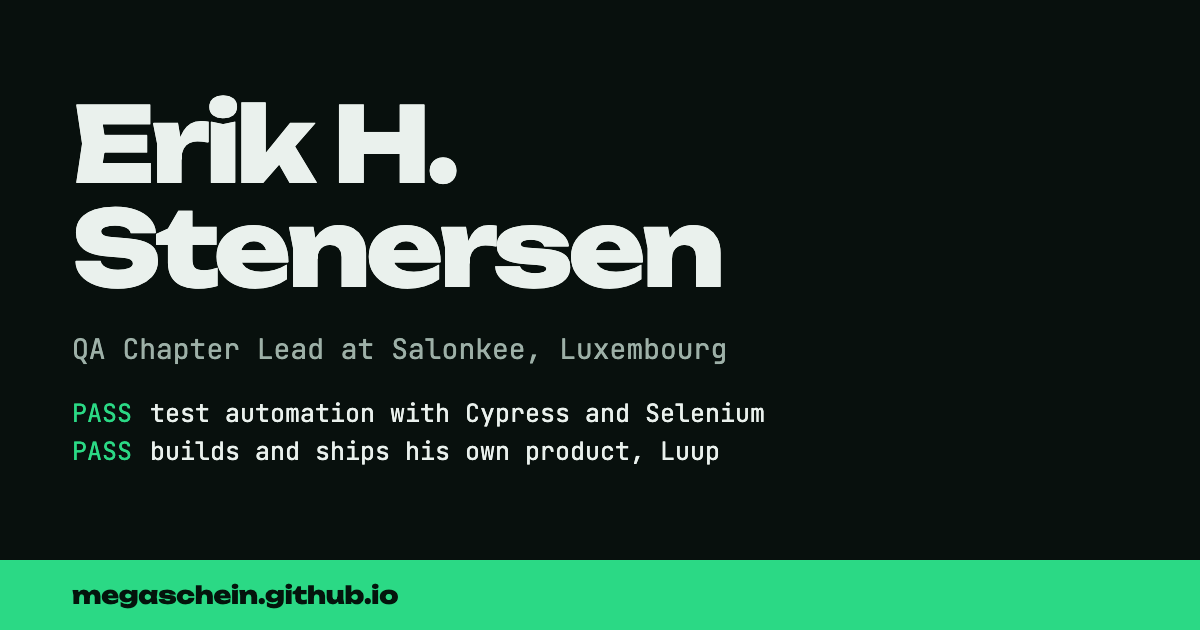
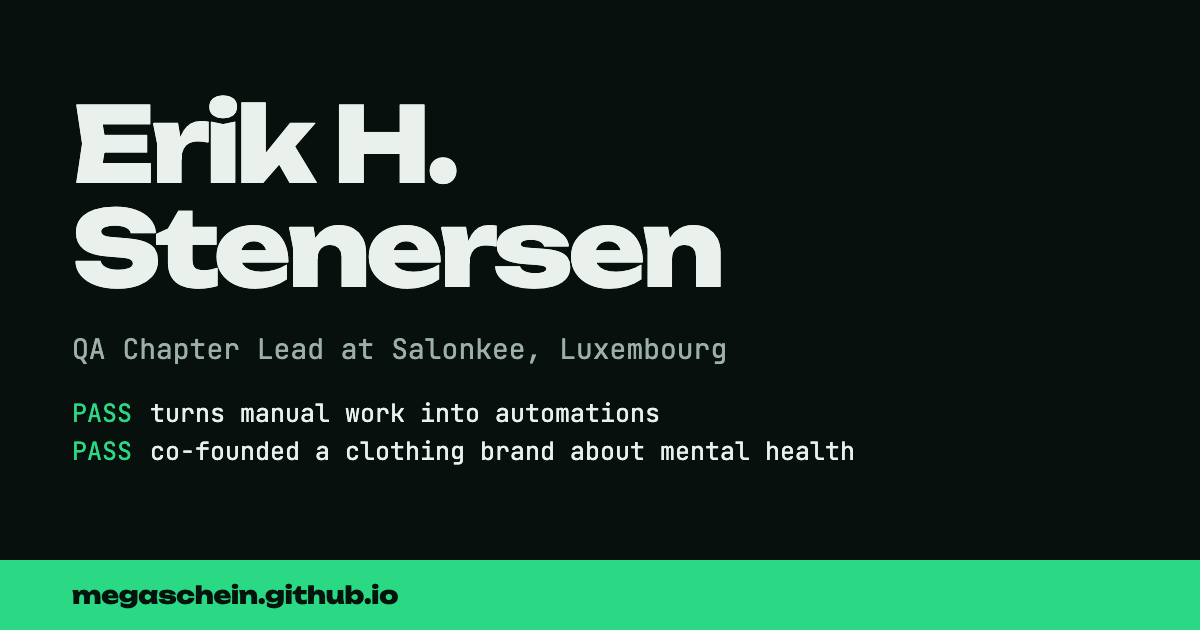
Rewrite the intro and copy, and move Luup into Beyond testing
Four intro lines that say who I am, Luup moved under Beyond testing, Sound
Advice in the past tense and linked to its Instagram, and the Salonkee
sentence kept separate from the automation savings.

Changed region(s): [[0.1233, 0.6333, 0.7092, 0.754]]

diff --git a/index.html b/index.html
@@ -50,7 +50,7 @@
     </div>
     <div class="term" aria-label="Summary of what I do">
       <div class="term-bar" aria-hidden="true"><i></i><i></i><i></i><span>run: erik --all</span></div>
-      <pre class="run"><span class="l"><b>PASS</b> leads QA at Salonkee</span><span class="l"><b>PASS</b> automates end-to-end tests with Cypress and Selenium</span><span class="l"><b>PASS</b> builds and ships his own product, Luup</span><span class="l"><b>PASS</b> speaks 5 languages</span><span class="l sum" id="sum" data-bug="count" data-bugged="5 passed, 0 failed">4 passed, 0 failed</span></pre>
+      <pre class="run"><span class="l"><b>PASS</b> leads QA at Salonkee</span><span class="l"><b>PASS</b> turns manual work into automations, once saved a business 7 working days a year</span><span class="l"><b>PASS</b> co-founded a clothing brand about mental health</span><span class="l"><b>PASS</b> speaks 5 languages</span><span class="l sum" id="sum" data-bug="count" data-bugged="5 passed, 0 failed">4 passed, 0 failed</span></pre>
     </div>
   </div>
 </header>
@@ -76,30 +76,8 @@
     <h2>What I do</h2>
     <div class="body prose">
       <p class="lede">I lead quality. That means deciding how a team tests, what gets automated, and which bugs are worth stopping a release for.</p>
-      <p>I came to QA the long way: freelance design and marketing, then business process analysis. So I look for the manual work that slows people down and automate it. One automation project I led saved a business seven working days a year.</p>
+      <p>I came to QA the long way: freelance design and marketing, then business process analysis. So I look for the manual work that slows people down and automate it. At Salonkee I built Cypress tests that run in CI/CD, took charge of planning the B2C app launch, and mentored teammates.</p>
       <p>I studied Digital Media and Interaction Design, so I also care whether a product feels right to use, not only whether it passes.</p>
-    </div>
-  </section>
-
-  <section class="split" id="luup" data-suite="Luup">
-    <h2>Luup</h2>
-    <div class="body">
-      <div class="luup-card">
-        <div class="luup-text">
-          <p class="lede">A peer-to-peer marketplace for buying, selling and sharing locally in Luxembourg. It is live, and I built it end to end.</p>
-          <ul class="plain">
-            <li>Angular 19 web app and an Expo (React Native) mobile app</li>
-            <li>Node and Express API on PostgreSQL, deployed with Docker Compose and GitHub Actions</li>
-            <li data-bug="contrast">AI that writes listing descriptions from photos and finds items from a picture, plus content moderation</li>
-            <li>Seven interface languages, with listings and chat translated automatically</li>
-            <li>Error monitoring with Sentry and server metrics</li>
-          </ul>
-          <p><a class="pill" href="https://luup.lu">Open luup.lu</a></p>
-        </div>
-        <figure class="phone">
-          <img src="images/luup-home.png" width="780" height="1260" alt="The Luup home page on a phone: a search box under the line 'Your neighbourhood, your marketplace'" loading="lazy">
-        </figure>
-      </div>
     </div>
   </section>
 
@@ -215,7 +193,25 @@
   <section class="split" id="beyond" data-suite="beyond testing">
     <h2>Beyond testing</h2>
     <div class="body">
-      <p class="lede prose">Before QA I worked in design and marketing. I still take photos, make music visuals and design things.</p>
+      <p class="lede prose">Before QA I worked in design and marketing. Outside work I build my own product, take photos, make music visuals and design things.</p>
+
+      <h3 class="beyond-h">Something I built</h3>
+      <div class="luup-card" id="luup">
+        <div class="luup-text">
+          <p class="lede">A peer-to-peer marketplace for buying, selling and sharing locally in Luxembourg. It is live, and I built it end to end.</p>
+          <ul class="plain">
+            <li>Angular 19 web app and an Expo (React Native) mobile app</li>
+            <li>Node and Express API on PostgreSQL, deployed with Docker Compose and GitHub Actions</li>
+            <li data-bug="contrast">AI that writes listing descriptions from photos and finds items from a picture, plus content moderation</li>
+            <li>Seven interface languages, with listings and chat translated automatically</li>
+            <li>Error monitoring with Sentry and server metrics</li>
+          </ul>
+          <p><a class="pill" href="https://luup.lu">Open luup.lu</a></p>
+        </div>
+        <figure class="phone">
+          <img src="images/luup-home.png" width="780" height="1260" alt="The Luup home page on a phone: a search box under the line 'Your neighbourhood, your marketplace'" loading="lazy">
+        </figure>
+      </div>
 
       <h3 class="beyond-h">Photography</h3>
       <div class="carousel" id="carousel" role="region" aria-roledescription="carousel" aria-label="Photography">
@@ -236,19 +232,18 @@
           <span id="car-count" aria-live="off">1 of 8</span>
         </div>
       </div>
-      <p class="more"><a href="https://erikhstenersen.wixsite.com/mysite/photography">More photography</a></p>
 
       <div class="cards">
         <article class="card card-music">
           <span class="eq" aria-hidden="true"><i></i><i></i><i></i><i></i><i></i></span>
           <h3>Wookie Productions</h3>
           <p>Audio-reactive music videos for my YouTube channel, made in After Effects since 2015. The channel has passed 165,000 views, and one remix video has more than 150,000.</p>
-          <p class="links"><a href="https://www.youtube.com/user/WookiePr0ductions/">Watch on YouTube</a> <a href="https://erikhstenersen.wixsite.com/mysite/visuals">More visuals</a></p>
+          <p class="links"><a href="https://www.youtube.com/user/WookiePr0ductions/">Watch on YouTube</a></p>
         </article>
         <article class="card card-sound">
           <img src="images/sound-advice-logo.jpg" width="600" height="113" alt="Sound Advice" loading="lazy">
-          <p>A lifestyle and clothing brand I co-founded in 2020. It aims to start positive conversations about mental health and to point people to support. Its motto: sometimes it's okay if all you did today was dance.</p>
-          <p class="links"><a href="https://erikhstenersen.wixsite.com/mysite/soundadvice">About Sound Advice</a></p>
+          <p>A lifestyle and clothing brand I co-founded in 2020. It set out to start positive conversations about mental health and to point people to support. Its motto was: sometimes it's okay if all you did today was dance.</p>
+          <p class="links"><a href="https://www.instagram.com/_soundadvice_/">Sound Advice on Instagram</a></p>
         </article>
       </div>
 
@@ -263,7 +258,6 @@
           <li><figure><img src="images/work/mascara-lies.jpg" width="700" height="538" alt="Mascara Lies: cover art for a music release" loading="lazy"><figcaption><strong>Mascara Lies</strong>Cover art for a music release</figcaption></figure></li>
           <li><figure><img src="images/work/stapp.jpg" width="700" height="662" alt="Stapp: promo ad for a study app" loading="lazy"><figcaption><strong>Stapp</strong>Promo ad for a study app</figcaption></figure></li>
       </ul>
-      <p class="more"><a href="https://erikhstenersen.wixsite.com/mysite/projects">See all projects</a></p>
     </div>
   </section>
 

diff --git a/tests/site.spec.js b/tests/site.spec.js
@@ -152,7 +152,7 @@ test.describe('beyond testing', () => {
   test('every photo and design image has a description', async ({ page }) => {
     const imgs = page.locator('#beyond img');
     const n = await imgs.count();
-    expect(n).toBe(16);
+    expect(n).toBe(17);
     for (let i = 0; i < n; i++) expect((await imgs.nth(i).getAttribute('alt'))?.length).toBeGreaterThan(8);
   });
 
@@ -164,7 +164,7 @@ test.describe('beyond testing', () => {
 
   test('the music and brand cards link to real pages', async ({ page }) => {
     await expect(page.getByRole('link', { name: 'Watch on YouTube' })).toHaveAttribute('href', 'https://www.youtube.com/user/WookiePr0ductions/');
-    await expect(page.getByRole('link', { name: 'About Sound Advice' })).toHaveAttribute('href', 'https://erikhstenersen.wixsite.com/mysite/soundadvice');
+    await expect(page.getByRole('link', { name: 'Sound Advice on Instagram' })).toHaveAttribute('href', 'https://www.instagram.com/_soundadvice_/');
     const html = await page.locator('#beyond').innerHTML();
     expect(html).not.toContain('soundadvice.store');
   });
@@ -203,4 +203,50 @@ test('carousel stays on the right photo when a late scroll event arrives mid-ani
   await page.waitForTimeout(250);
   await page.locator('#car-prev').click();
   await expect(page.locator('#car-count')).toHaveText(`${start} of 8`);
+});
+
+test('Luup sits inside Beyond testing, after the experience', async ({ page }) => {
+  await expect(page.locator('#beyond #luup')).toHaveCount(1);
+  await expect(page.locator('section#luup')).toHaveCount(0);
+  const inOrder = await page.evaluate(() => {
+    const y = (sel) => document.querySelector(sel).getBoundingClientRect().top + scrollY;
+    return y('#experience') < y('#luup');
+  });
+  expect(inOrder).toBe(true);
+});
+
+test('hero introduces who Erik is with four facts in the same voice', async ({ page }) => {
+  const lines = await page.locator('.run .l:not(.sum)').allTextContents();
+  expect(lines).toHaveLength(4);
+  expect(lines.join(' ')).toContain('co-founded a clothing brand about mental health');
+  expect(lines.join(' ')).toContain('turns manual work into automations, once saved a business 7 working days a year');
+  expect(lines.join(' ')).not.toContain('his own product');
+});
+
+test('Beyond testing keeps visitors on the page instead of sending them to Wix for more', async ({ page }) => {
+  const hrefs = await page.locator('#beyond a').evaluateAll((as) => as.map((a) => a.getAttribute('href')));
+  for (const gone of ['/photography', '/visuals', '/projects']) {
+    expect(hrefs.some((h) => h.endsWith(gone)), gone).toBe(false);
+  }
+  await expect(page.getByText('More photography')).toHaveCount(0);
+  await expect(page.getByText('See all projects')).toHaveCount(0);
+});
+
+test('Sound Advice is described in the past tense', async ({ page }) => {
+  const card = page.locator('.card-sound');
+  await expect(card).toContainText('set out to start positive conversations');
+  await expect(card).toContainText('Its motto was');
+  await expect(card).not.toContainText('aims to');
+});
+
+test('What I do adds new facts instead of repeating the hero line', async ({ page }) => {
+  const about = await page.locator('#about').innerText();
+  expect(about).not.toMatch(/seven working days|7 working days/);
+  expect(about).toContain('Cypress tests that run in CI/CD');
+  await expect(page.locator('.run')).toContainText('7 working days a year');
+});
+
+test('Beyond testing no longer links to the old Wix site', async ({ page }) => {
+  const html = await page.locator('#beyond').innerHTML();
+  expect(html).not.toContain('wixsite.com');
 });
